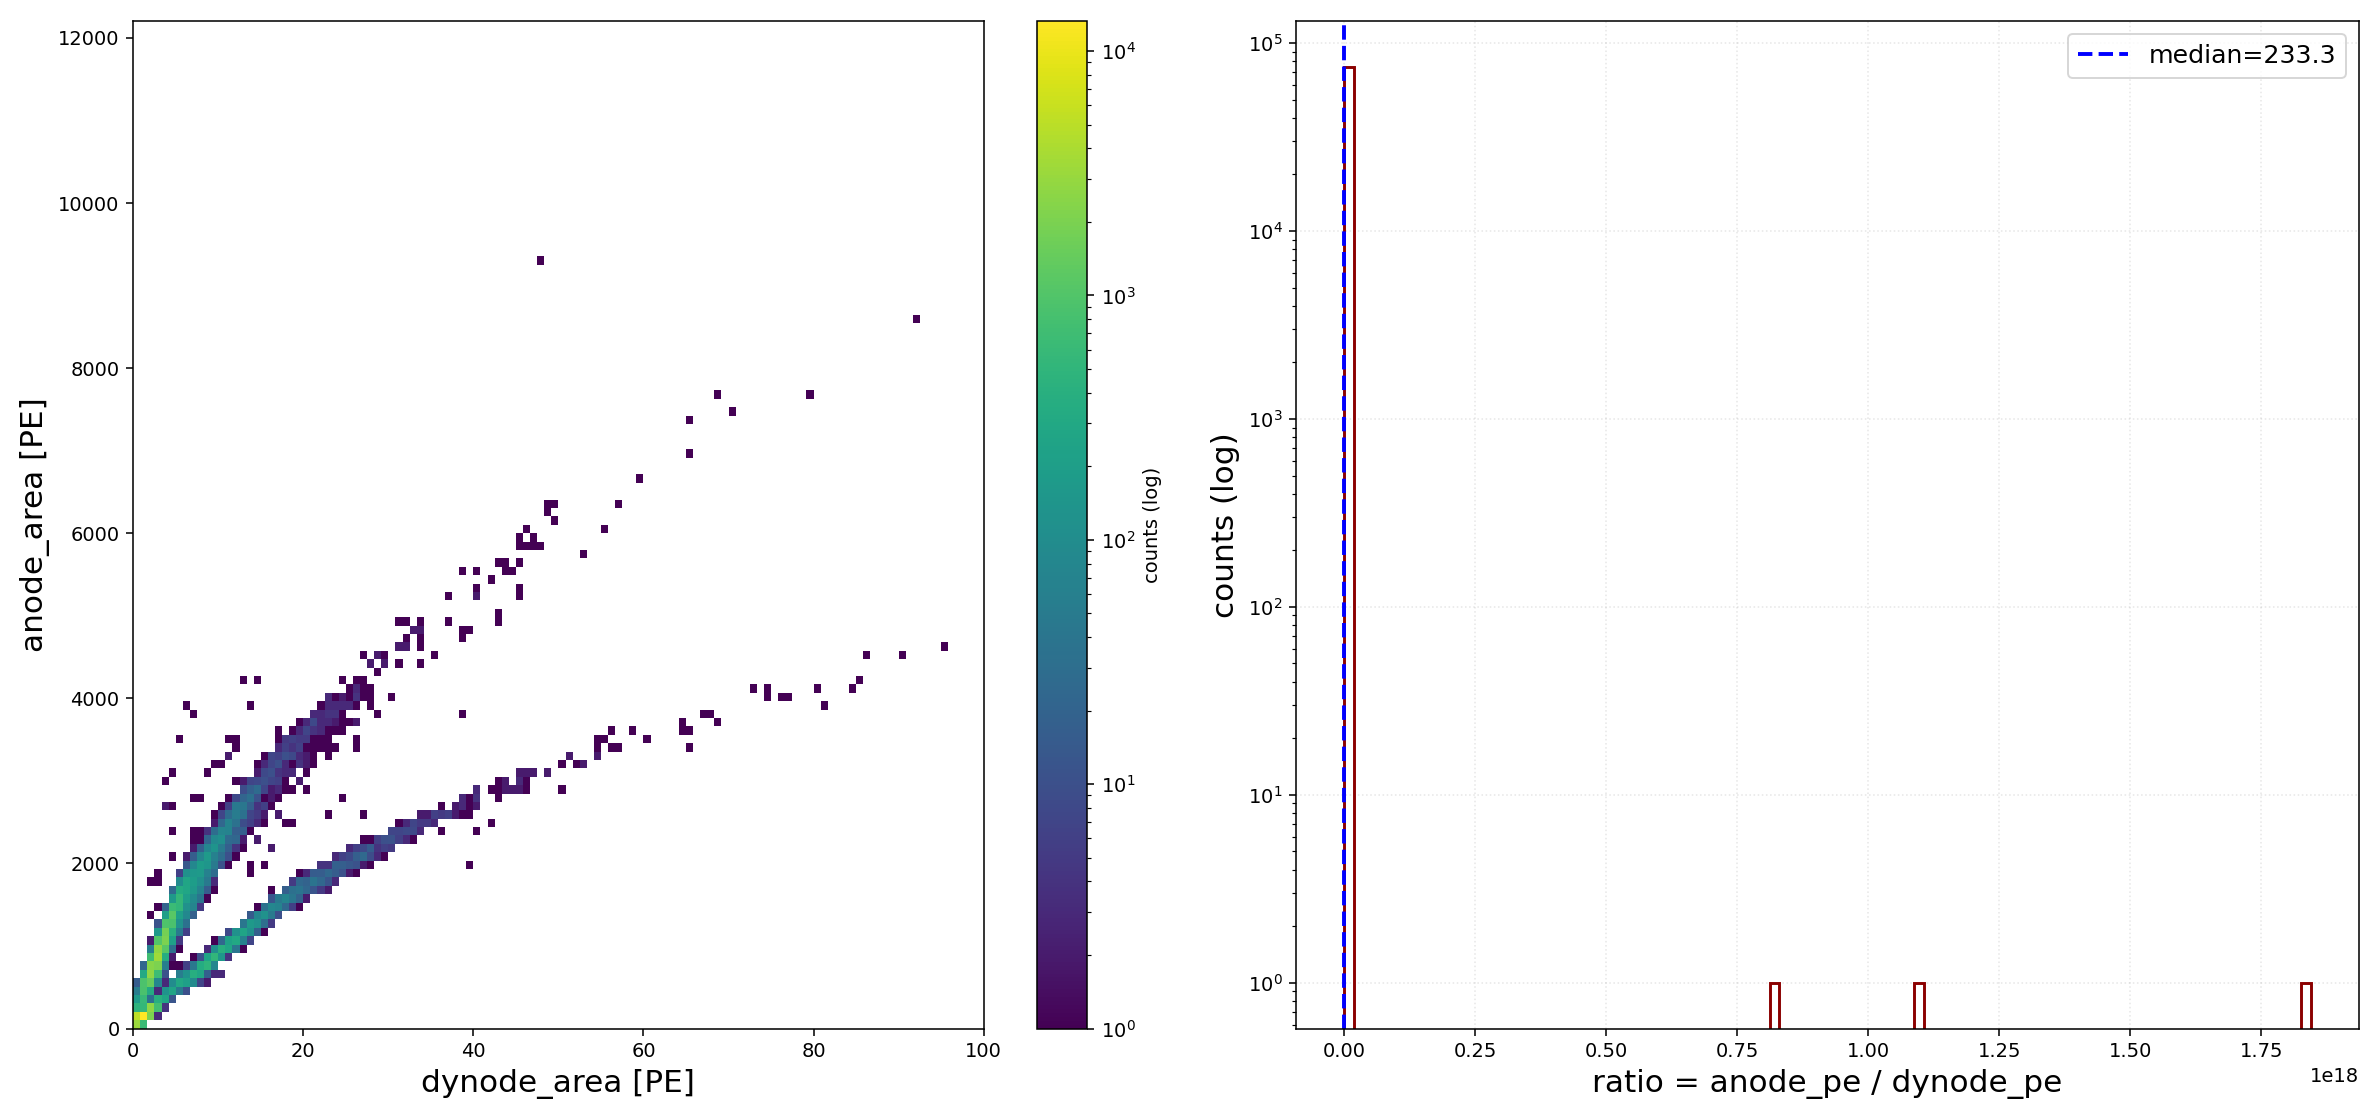
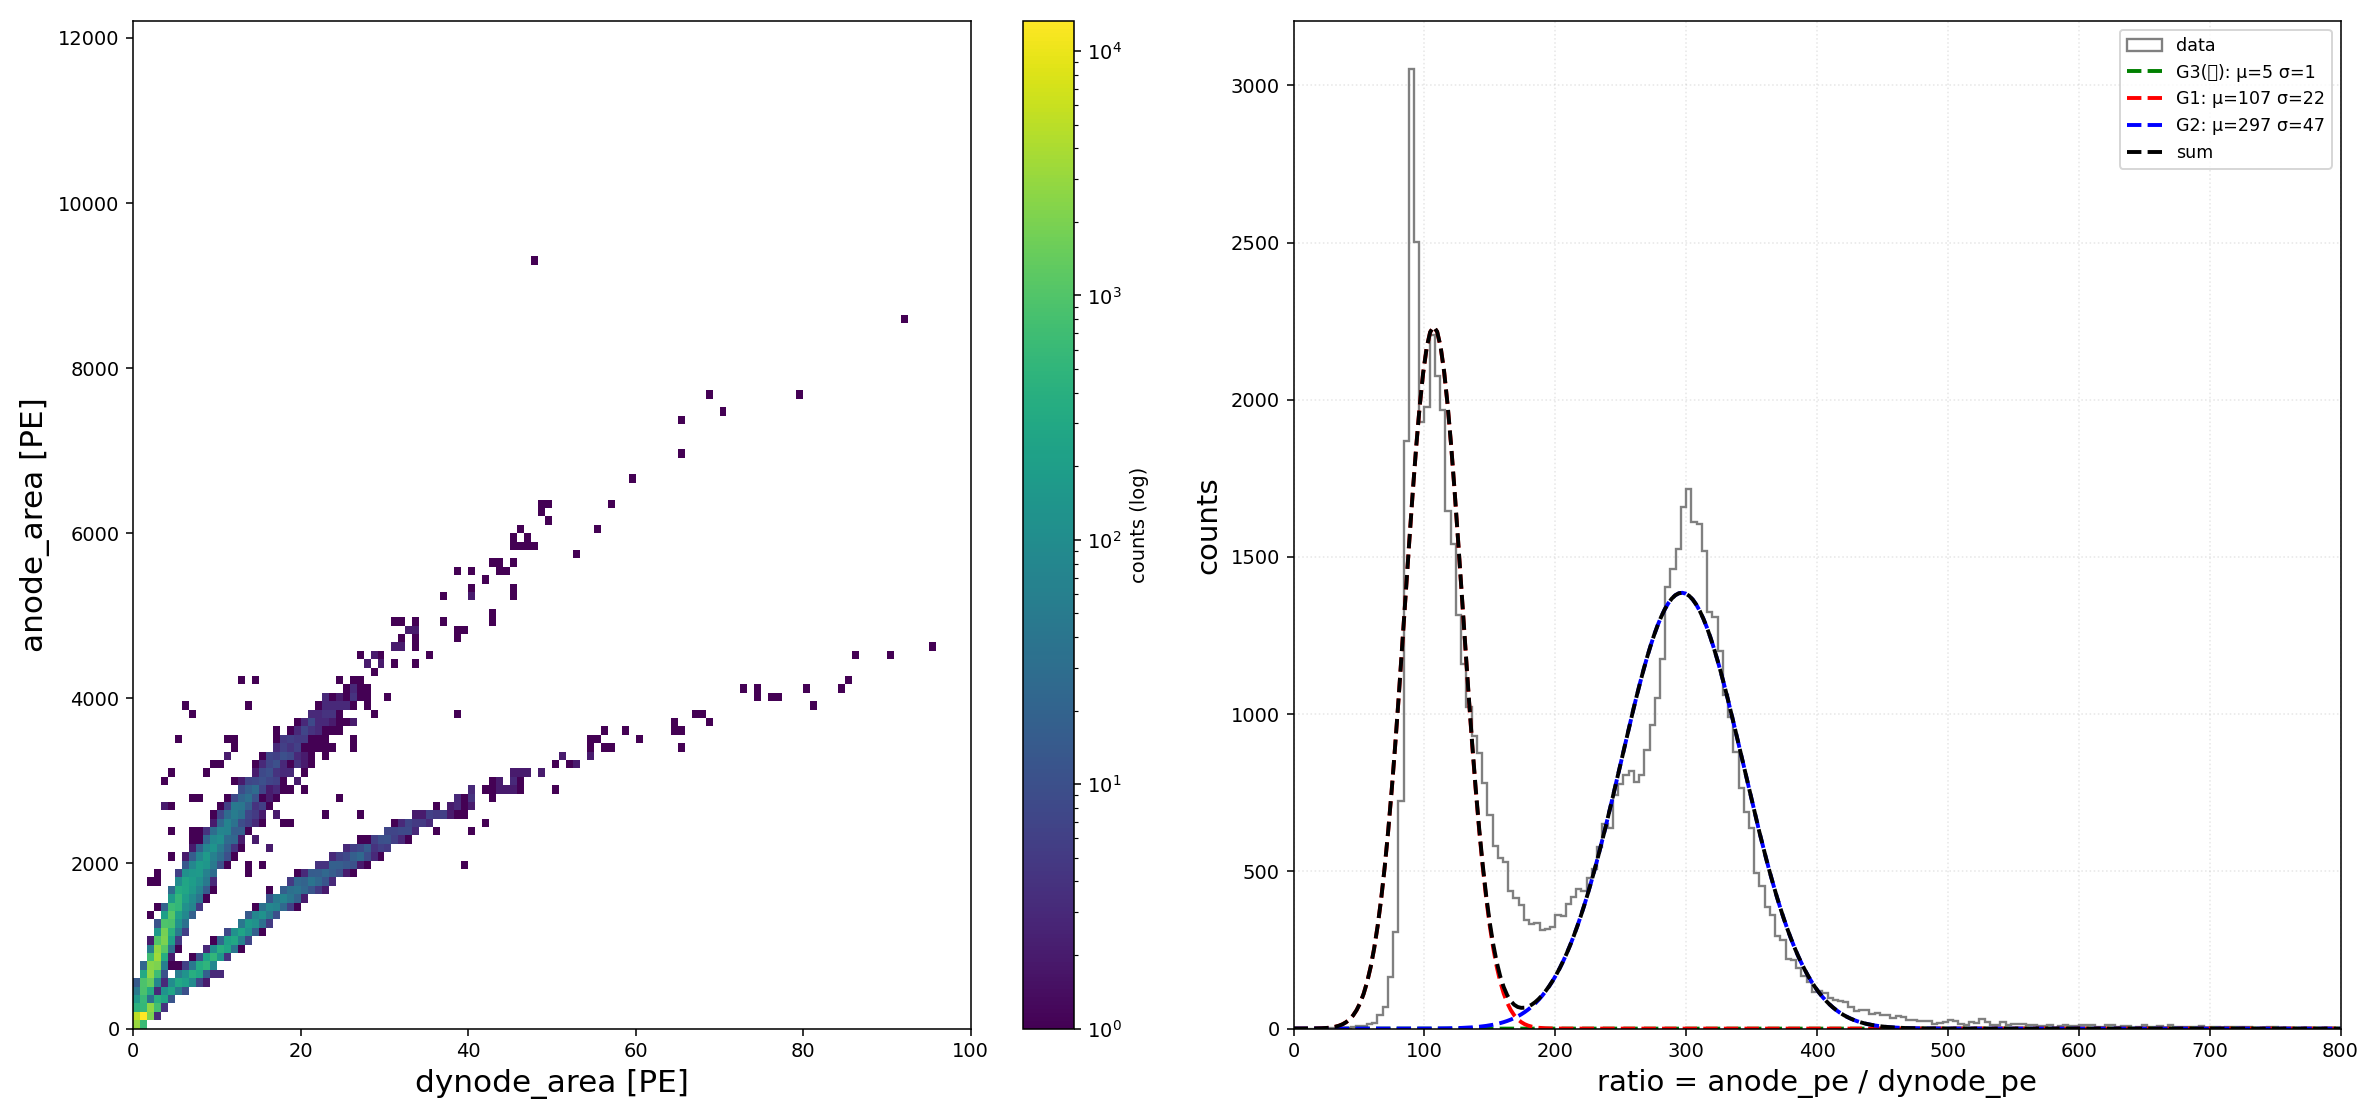
Docs: replace global area-ratio analysis with per-PMT bimodal findings; remove slope-147 2D fit + ratio-237 hist

diff --git a/docs/muon_algorithm_architecture.md b/docs/muon_algorithm_architecture.md
@@ -141,16 +141,8 @@ dynode 侧**每个通道先 ×dynode_scale(113) 再叠加**（`side_sum(records,
 
 > 逐 PMT 数据：`/mnt/data/tmp/muon_analysis/no_field_peaks/all_pairs_perpmt_pe.csv`。
 
-**算法**：`area_ano/area_dyn` 2D 直方图 + 线性拟合。No-Field 实测：
-
-- 中位比值 **≈230**（anode:dynode 原始面积比，稳定）
-- PE scale 后比值不变（cal 相消），中位 area_ano ≈7,842 PE、area_dyn ≈33.9 PE
-- 自由线性拟合（x≤12000 段）：`y = 147.4·x + 344,774`（R²≈0.965）——截距来自
-  area_ano 未减基线的常数偏移
-
-![面积比直方图](figures/area_ratio_histograms.png)
-
-![area_ano vs area_dyn 2D 直方图 + 线性拟合（PE）](figures/area_ano_dyn_2dhist_fit_pe.png)
+> 以上逐 PMT 积分/双峰分析取代了旧版"area_ano/area_dyn 全局比值~230 / 2D 拟合斜率147"
+> 的合成描述——该旧分析把所有 PMT 混在一起，掩盖了 ch9(≈107) vs ch10-15(≈300) 的真实分群。
 
 ---
 
